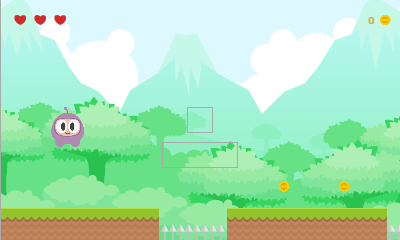
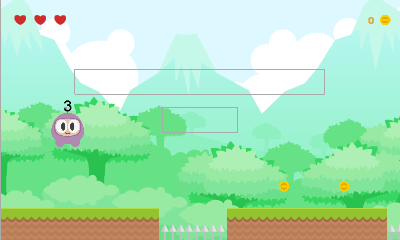
Loop v1.0

diff --git a/loop/engine/GameObject.js b/loop/engine/GameObject.js
@@ -11,8 +11,8 @@ class GameObject {
         // Define get and set functions for new game properties
         var keys = Object.keys(actor.newProperties); // zIndex is included in newProperties
         keys.forEach(key => this["_" + key] = actor[key])
-        var otherKeys = ["spawned", "dead", "name", "sleeping", "physicsOn", "soundOn", "collider", "actor",
-            "container", "audio", "rigidbody", "engine", "screen"];
+        var otherKeys = ["spawned", "dead", "name", "sleeping", "screen", "physicsOn", "soundOn",
+            "collider", "actor", "container", "audio", "rigidbody", "engine"];
         keys.concat(otherKeys).forEach(key => {
             Object.defineProperty(this, key, {
                 get() { return this["_" + key] },
@@ -67,13 +67,13 @@ class GameObject {
         }
     }
 
-    fixedUpdate(deltaTime, scope) { // logic update
+    fixedUpdate(deltaTime) { // logic update
         if (this.spawned) { // CRUD - CREATE
             this.spawned = false; // Do not execute rules the first time the object is spawned
         }
         else if (this.dead) { // CRUD - DELETE
             if (this.audio) this.audio.source.stop(this.audio.id);
-            this.engine.render.stage.removeChild(this.container);
+            this.engine.render.stage.removeChild(this._container);
             if (this.debug) this.engine.render.stage.removeChild(this.debug);
             this.engine.physics.world.destroyBody(this.rigidbody);
             this.engine.gameObjects.delete(this.name);
@@ -81,15 +81,15 @@ class GameObject {
         }
         else if (!this.sleeping) { // CRUD - UPDATE
             // update logic
-            if (this.rule) try { this.rule.eval(scope); } catch (error) { console.log(error); }
+            if (this.rule) try { this.rule.eval(this.engine.scope); } catch (error) { console.log(error); }
             // update scrolling
-            if (this._scrollX != 0) this.container.sprite.tilePosition.x += this._scrollX * deltaTime;
-            if (this._scrollY != 0) this.container.sprite.tilePosition.y += this._scrollY * deltaTime;
+            if (this._scrollX != 0) this._container.sprite.tilePosition.x += this._scrollX * deltaTime;
+            if (this._scrollY != 0) this._container.sprite.tilePosition.y += this._scrollY * deltaTime;
             // update text
             if (this.textOn) {
-                this.text = math.print(this.container.text.expression, scope);
-                if (this.align == "Left") this.container.text.position.x = (-this.width / 2 + this.container.text.width / 2) + this.offsetX;
-                if (this.align == "Right") this.container.text.position.x = (this.width / 2 - this.container.text.width / 2) + this.offsetX;
+                this._container.spriteText.text = math.print(this._container.spriteText.expression, this.engine.scope);
+                if (this.align == "Left") this._container.spriteText.position.x = (-this.width / 2 + this._container.spriteText.width / 2) + this.offsetX;
+                if (this.align == "Right") this._container.spriteText.position.x = (this.width / 2 - this._container.spriteText.width / 2) + this.offsetX;
             }
         }
     }
@@ -230,40 +230,40 @@ class GameObject {
     }
 
     get textOn() { return this._textOn }
-    set textOn(value) { this._textOn = this._container.text.visible = value }
+    set textOn(value) { this._textOn = this._container.spriteText.visible = value }
 
     get text() { return this._text }
-    set text(value) { this._text = this._container.text.text = value }
+    set text(value) { this._text = this._container.spriteText.expression = value }
 
     get font() { return this._font }
-    set font(value) { this._font = this._container.text.style.fontFamily = value }
+    set font(value) { this._font = this._container.spriteText.style.fontFamily = value }
 
     get size() { return this._size }
-    set size(value) { this._size = this._container.text.style.fontSize = value }
+    set size(value) { this._size = this._container.spriteText.style.fontSize = value }
 
     get fill() { return this._fill }
-    set fill(value) { this._fill = this._container.text.style.fill = value }
+    set fill(value) { this._fill = this._container.spriteText.style.fill = value }
 
     get style() { return this._style };
-    set style(value) { this._style = this._container.text.style.fontStyle = value }
+    set style(value) { this._style = this._container.spriteText.style.fontStyle = value }
 
     get align() { return this._align }
-    set align(value) { this._align = value; this._container.text.style.align = value.toLowerCase() };
+    set align(value) { this._align = value; this._container.spriteText.style.align = value.toLowerCase() };
 
     get offsetX() { return this._offsetX }
     set offsetX(value) {
         this._offsetX = value;
         const w = Math.abs(this._container.sprite.width * this._container.sprite.scale.x);
         var pivot = { x: 0, y: 0 };
-        switch (this._container.text.style.align) {
-            case "left": pivot = { x: -w / 2 + this._container.text.width / 2 }; break;
-            case "right": pivot = { x: w / 2 - this._container.text.width / 2 }; break;
+        switch (this._container.spriteText.style.align) {
+            case "left": pivot = { x: -w / 2 + this._container.spriteText.width / 2 }; break;
+            case "right": pivot = { x: w / 2 - this._container.spriteText.width / 2 }; break;
         }
         this._container.text.position.x = pivot.x + value;
     }
 
     get offsetY() { return this._offsetY }
-    set offsetY(value) { this._offsetY = this._container.text.position.y = value }
+    set offsetY(value) { this._offsetY = this._container.spriteText.position.y = value }
 
     get sound() { return this._sound }
     set sound(value) {

diff --git a/loop/engine/Engine.js b/loop/engine/Engine.js
@@ -12,7 +12,7 @@ class Engine {
         this.objectSoundsOn = true;
         // Create a new object to acces by name to the scenes in the load and in the scope
         this.sceneList = new Object();
-        gameModel.sceneList.forEach(scene => { this.sceneList[scene.name] = scene; });
+        gameModel.sceneList.forEach(scene => { this.sceneList[scene.name] = scene });
         // Start audio engine
         this.gameLevel = new GameLevel(this);
         this.aural = new Aural(this.gameModel);
@@ -40,7 +40,7 @@ class Engine {
         this.currentTime = newTime;
     }
 
-    loadScene(scene) {
+    loadScene(sceneName) {
         this.resume(); // Active the different engines
         // Create new data structures
         this.gameLevel.updateScene();
@@ -53,15 +53,15 @@ class Engine {
         this.physics = new Physics(this.gameLevel, this.gameObjects);
         // Create gameObjects
         var zIndex = 0;
-        this.sceneList[scene].actorList.forEach(actor => {
+        this.sceneList[sceneName].actorList.forEach(actor => {
             actor.zIndex = zIndex;
             var gameObject = new GameObject(this, actor);
             this.gameObjects.set(actor.name, gameObject);
             this.scope[actor.name] = gameObject;
             zIndex++;
         });
-        this.currentScene = scene;
-        this.currentSceneNumber = this.gameModel.sceneList.indexOf(this.sceneList[scene]);
+        this.currentScene = sceneName;
+        this.currentSceneNumber = this.gameModel.sceneList.indexOf(this.sceneList[sceneName]);
         this.changeScene = false;
     }
 

diff --git a/loop/engine/Text.js b/loop/engine/Text.js
@@ -16,12 +16,6 @@ class Text {
         var text = new PIXI.Text(textExpression, style);
         text.visible = actor.textOn;
         text.anchor.set(0.5);
-        // var pivot = { x: 0, y: 0 };
-        // switch (actor.align) {
-        //     case "Left": pivot.x = - actor.width / 2 + text.width / 2; break;
-        //     case "Right": pivot.x =  actor.width / 2 - text.width / 2; break;
-        // }
-        // text.position = { x: pivot.x + actor.offsetX, y: pivot.y + actor.offsetY };
         text.position = { x: actor.offsetX, y: actor.offsetY };
         text.scale.y = -1;
         text.expression = textExpression;

diff --git a/loop/engine/Container.js b/loop/engine/Container.js
@@ -11,7 +11,7 @@ class Container extends PIXI.Container {
         this.sprite = new Sprite(actor);
         this.addChild(this.sprite);
         // Text properties
-        this.text = new Text(actor);
-        this.addChild(this.text);
+        this.spriteText = new Text(actor);
+        this.addChild(this.spriteText);
     }
 }
